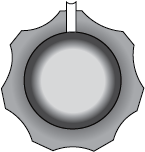
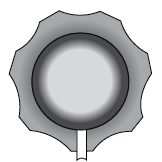
[basic::oscillator] Add knob for choosing shape

diff --git a/src/compute/node/inputs/wave.rs b/src/compute/node/inputs/wave.rs
@@ -1,9 +1,12 @@
 use atomic_float::AtomicF32;
-use eframe::egui;
+use eframe::epaint::ColorImage;
 use serde::{Deserialize, Serialize};
 use std::sync::atomic::Ordering;
 
-use crate::compute::{node::InputUi, Value};
+use crate::{
+    compute::{node::InputUi, Value},
+    util::load_image_from_path,
+};
 
 #[derive(Debug, Serialize, Deserialize)]
 pub struct WaveInput {
@@ -20,13 +23,25 @@ impl WaveInput {
     pub fn as_f32(&self, recv: &Value) -> f32 {
         recv.as_float().unwrap_or(self.s.load(Ordering::Relaxed))
     }
+
+    fn wave_knob_image() -> ColorImage {
+        load_image_from_path("assets/knob.png")
+    }
+
+    fn wave_scale_image() -> ColorImage {
+        load_image_from_path("assets/shape-scale.png")
+    }
 }
 
 impl InputUi for WaveInput {
     fn show_disconnected(&self, ui: &mut eframe::egui::Ui, _verbose: bool) {
         let mut s = self.s.load(Ordering::Acquire);
 
-        ui.add(egui::Slider::new(&mut s, 0.0..=1.0));
+        ui.add(egui_knobs::Knob::new(
+            &mut s,
+            Self::wave_knob_image,
+            Self::wave_scale_image,
+        ));
 
         self.s.store(s, Ordering::Release);
     }

diff --git a/src/util/mod.rs b/src/util/mod.rs
@@ -307,3 +307,11 @@ pub fn toggle_button(label: &str, state: bool) -> eframe::egui::Button {
         eframe::egui::Button::new(label)
     }
 }
+
+pub fn load_image_from_path(path: impl AsRef<std::path::Path>) -> eframe::egui::ColorImage {
+    let image = image::io::Reader::open(path).unwrap().decode().unwrap();
+    let size = [image.width() as _, image.height() as _];
+    let image_buffer = image.to_rgba8();
+    let pixels = image_buffer.as_flat_samples();
+    eframe::egui::ColorImage::from_rgba_unmultiplied(size, pixels.as_slice())
+}
